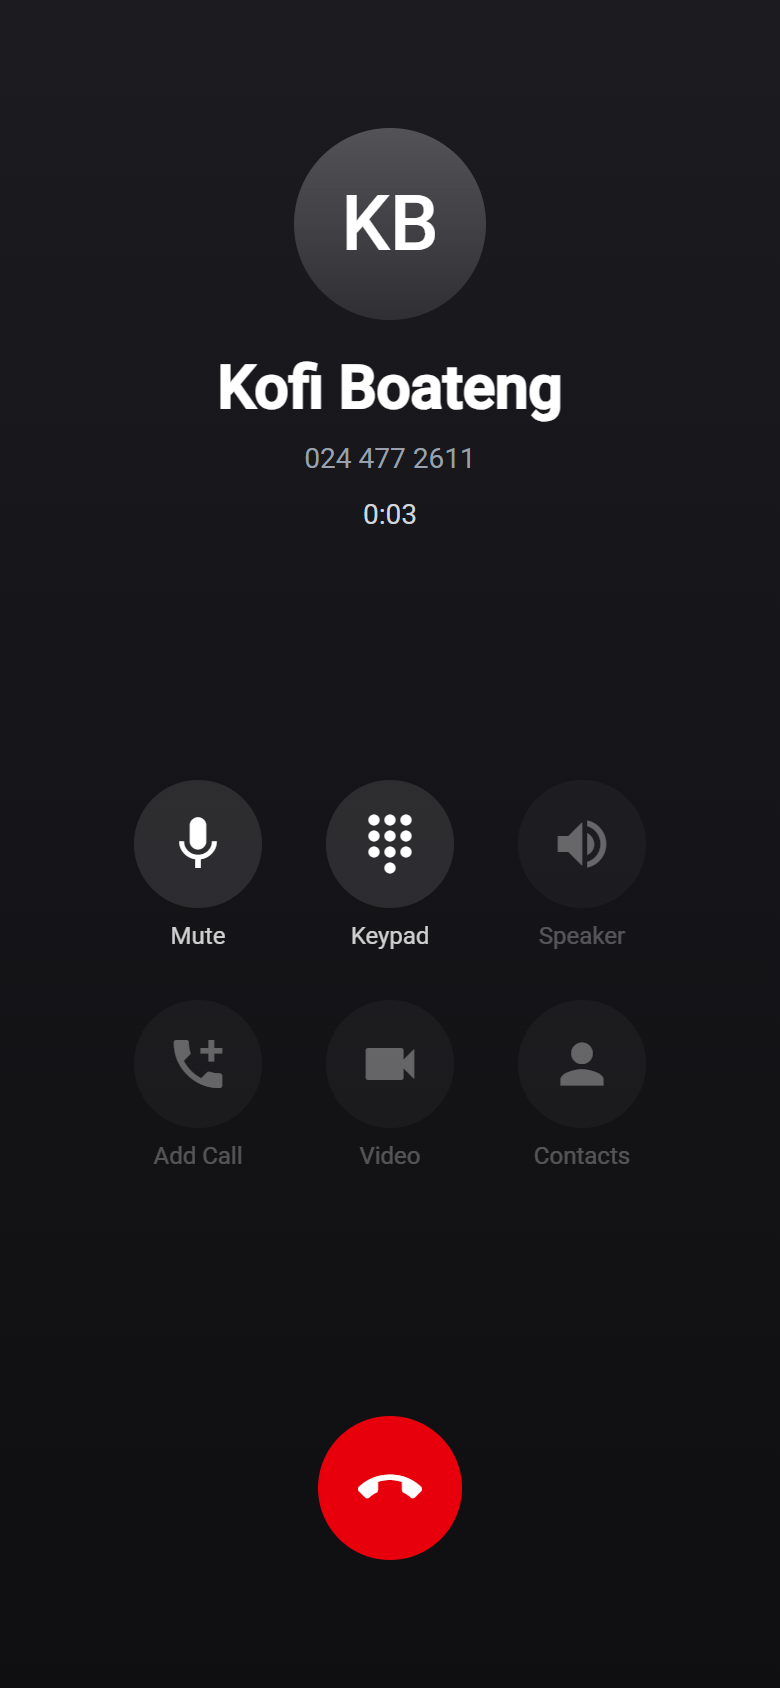
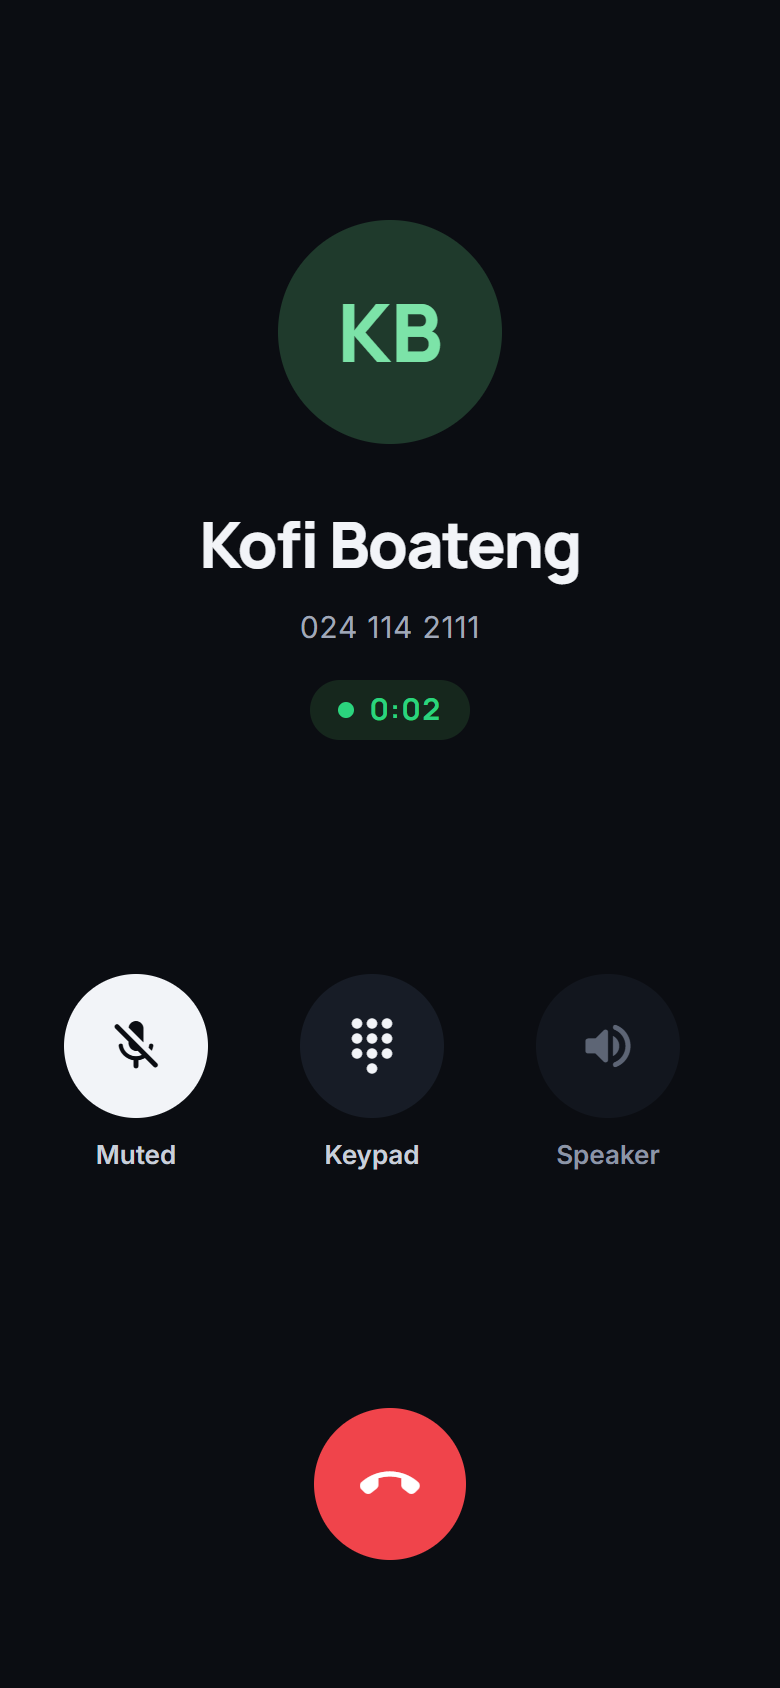
Docs: screenshots of the redesign in dark and light
The gallery now shows the redesigned app in both themes (taken at 2x from
the running app with real accounts and calls), and the feature list
covers the show/hide password, the appearance switch, Recents day
headings and the trimmed call controls.

diff --git a/README.md b/README.md
@@ -9,21 +9,35 @@ A web dialer that works like the Phone app on a smartphone: type a number on a k
 
 ## Screenshots
 
+Dialer follows your device's light or dark setting, and you can choose either one on **My Card**.
+
+**Dark**
+
+| Log in | Create account | Keypad |
+| :---: | :---: | :---: |
+| <img src="docs/screenshots/login.png" width="240" alt="Log in with the password shown by the eye button"> | <img src="docs/screenshots/register.png" width="240" alt="Create account with inline errors and a password strength guide"> | <img src="docs/screenshots/keypad.png" width="240" alt="Keypad with a typed number and the matching contact's name"> |
+| **Contacts** | **Contact** | **Recents** |
+| <img src="docs/screenshots/contacts.png" width="240" alt="Contact list with My Card, A–Z sections and a letter index"> | <img src="docs/screenshots/contact-detail.png" width="240" alt="Contact page with Message, Call and Favorite, the number and recent calls"> | <img src="docs/screenshots/recents.png" width="240" alt="Recent calls under Today, Yesterday and Earlier, missed calls in red"> |
+| **Incoming call** | **In a call** | **New contact** |
+| <img src="docs/screenshots/incoming.png" width="240" alt="Incoming call with Decline and Accept"> | <img src="docs/screenshots/call.png" width="240" alt="Connected call with the live timer, Mute, Keypad and Speaker"> | <img src="docs/screenshots/new-contact.png" width="240" alt="New contact form warning that the number is already saved"> |
+
+**Light**
+
 | Log in | Keypad | Contacts |
 | :---: | :---: | :---: |
-| <img src="docs/screenshots/login.png" width="240" alt="Log in screen"> | <img src="docs/screenshots/keypad.png" width="240" alt="Keypad with a typed number and the matching contact's name"> | <img src="docs/screenshots/contacts.png" width="240" alt="Contact list with My Card, A–Z sections and a letter index"> |
-| **Contact detail** | **Recents** | **New contact** |
-| <img src="docs/screenshots/contact-detail.png" width="240" alt="Contact detail with message, call and favourite actions and recent calls"> | <img src="docs/screenshots/recents.png" width="240" alt="Recent calls with caller ID, missed calls in red and grouped repeats"> | <img src="docs/screenshots/new-contact.png" width="240" alt="New contact form"> |
-| **Incoming call** | **In a call** | **Not on Dialer** |
-| <img src="docs/screenshots/incoming.png" width="240" alt="Incoming call with Accept and Decline"> | <img src="docs/screenshots/call.png" width="240" alt="Connected call with timer, mute and keypad"> | <img src="docs/screenshots/not-on-dialer.png" width="240" alt="A number that isn't on Dialer, with Call from your phone"> |
+| <img src="docs/screenshots/light-login.png" width="240" alt="Log in screen in light mode"> | <img src="docs/screenshots/light-keypad.png" width="240" alt="Keypad in light mode"> | <img src="docs/screenshots/light-contacts.png" width="240" alt="Contacts in light mode"> |
+| **Recents** | **In a call** | **My Card** |
+| <img src="docs/screenshots/light-recents.png" width="240" alt="Recents in light mode"> | <img src="docs/screenshots/light-call.png" width="240" alt="A call in light mode"> | <img src="docs/screenshots/light-account.png" width="240" alt="My Card with the System, Light and Dark appearance switch"> |
 
-All screenshots are from the running app with real accounts; the call is a real browser-to-browser call.
+All screenshots are from the running app with real accounts; the calls are real browser-to-browser calls. The design was made in Claude Design first and then built.
 
 ## Features
 
 **Accounts**
 - Sign up with your name, phone number, email and password. Your phone number is how other Dialer users call you.
 - Log in, stay logged in across reloads, and log out from **My Card** (top of Contacts). An expired session sends you back to the login screen.
+- The eye button in a password field shows or hides what you typed. Sign-up also shows how strong your password is.
+- **Appearance:** light and dark themes. Dialer follows your device until you pick System, Light or Dark on My Card.
 - Your contacts and call history are stored on the server and private to your account.
 
 **Keypad**
@@ -43,6 +57,7 @@ All screenshots are from the running app with real accounts; the call is a real 
 **Favorites**: starred contacts. Tap a contact to call; tap ⓘ for details.
 
 **Recents**
+- Calls are listed under **Today**, **Yesterday** and **Earlier**.
 - Only back-to-back calls with the same number, type and day are grouped, e.g. "Daniel White (3)".
 - Incoming, outgoing and missed calls each have their own icon.
 - *All / Missed* filter, an ⓘ button that opens the contact (or creates one for an unknown number), and *Edit* mode to delete rows or clear everything.
@@ -53,7 +68,7 @@ All screenshots are from the running app with real accounts; the call is a real 
 - Phone-like outcomes: *Busy*, *No answer*, *Declined*, *Not available right now*, *Call dropped*, and *Missed call* for the person called. Missed calls show in Recents.
 - Recents shows the caller's Dialer name (like caller ID) when the number isn't in your contacts.
 - Dialling a number that isn't on Dialer offers **Call from your phone**, which hands the number to your device's phone app.
-- **Mute** turns off your microphone, and the in-call **keypad** sends real touch tones. Speaker, Add Call, Video and Contacts are shown but disabled: browsers can't switch to the loudspeaker, and calls are one-to-one audio.
+- **Mute** turns off your microphone, and the in-call **keypad** sends real touch tones. **Speaker** is shown but disabled, because browsers can't switch to the loudspeaker.
 - If you leave the call screen during a call, a green **Return to call** banner takes you back.
 
 ## Keyboard shortcuts
